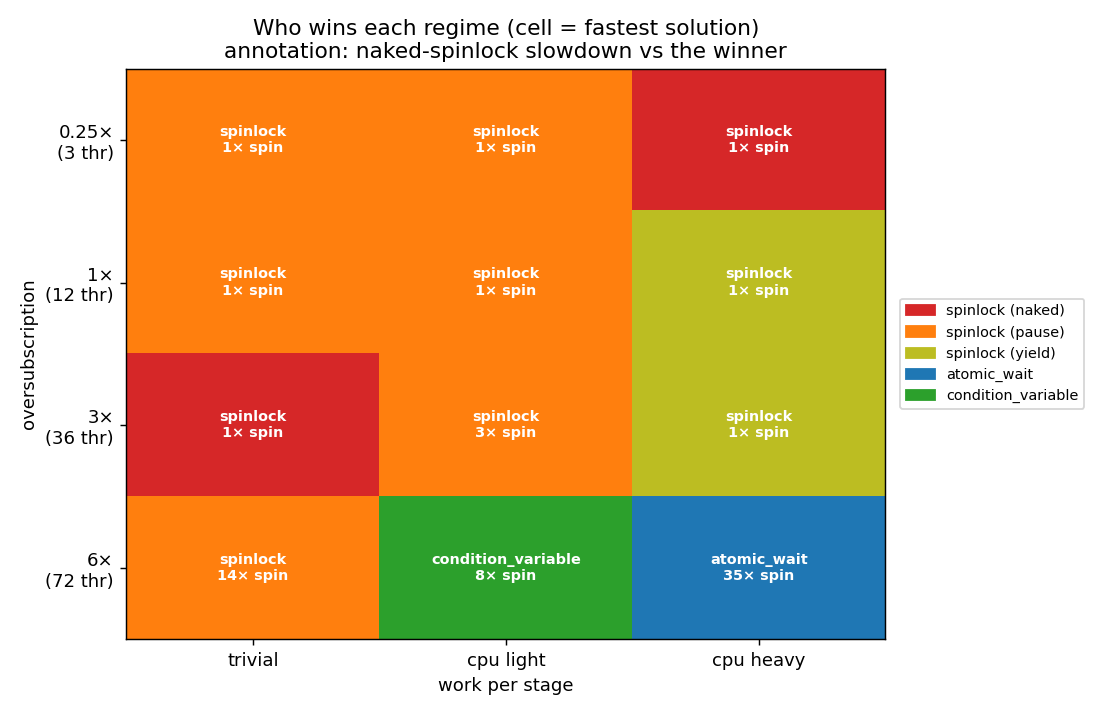
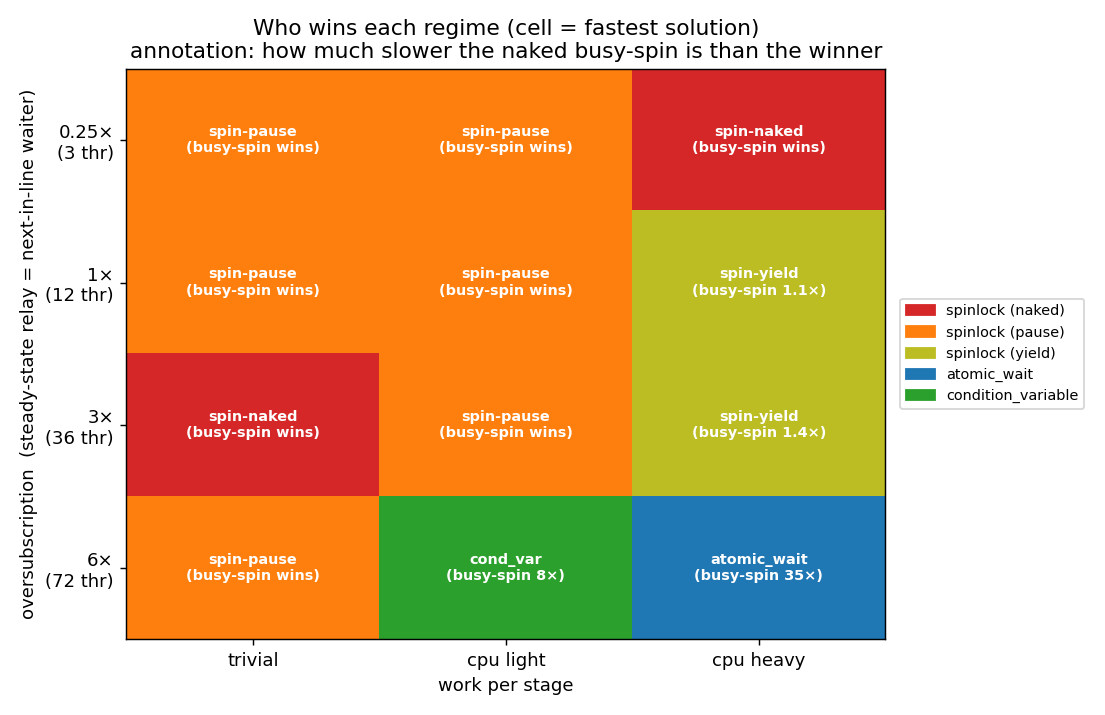
Fix misleading heatmap labels; clarify when busy-spin actually wins
The heatmap collapsed all three spinlock variants to "spinlock", so cells won by
spin-yield (which yields the core) read as busy-waiting wins. Now each cell names
the variant and annotates how the naked busy-spin (the variant that *holds* a
core) actually did.

Also document the two first-principles conditions for busy-spin to pay off — a
free core for the waiter AND high replacement frequency (waiter about to run) —
and make explicit that the heatmap is the steady-state relay (every waiter is
next-in-line, which is why spinning wins broadly there) while the one-shot bars
are the true thundering herd (where naked busy-spin loses on cpu work too).

Data: naked busy-spin clearly wins only at <=1x oversubscription; at 6x + cpu it
is ~35x slower. Matches the classic model.

diff --git a/scripts/plot.py b/scripts/plot.py
@@ -41,6 +41,12 @@ COLOR = {
 WORKLABEL = {("none", "0"): "trivial", ("cpu", "500"): "cpu light",
              ("cpu", "4000"): "cpu heavy", ("cpu", "20000"): "cpu",
              ("sleep", "200"): "sleep / IO"}
+# Short, variant-distinguishing names so the heatmap never hides which kind of
+# "spinlock" actually won (yield gives the core back; naked/pause hold it).
+SHORT = {"spinlock": "spin-naked", "spinlock_pause": "spin-pause",
+         "spinlock_yield": "spin-yield", "atomic_wait": "atomic_wait",
+         "condition_variable": "cond_var"}
+HOLDS_CORE = {"spinlock", "spinlock_pause"}  # true busy-wait
 
 
 def load():
@@ -130,13 +136,15 @@ def plot_heatmap(rows):
     ax.set_xticks(range(len(works)), [WORKLABEL.get(w, "/".join(w)) for w in works])
     ax.set_yticks(range(len(lanes)), [f"{3*ln/CORES:g}×\n({3*ln} thr)" for ln in lanes])
     ax.set_xlabel("work per stage")
-    ax.set_ylabel("oversubscription")
+    ax.set_ylabel("oversubscription  (steady-state relay = next-in-line waiter)")
     ax.set_title("Who wins each regime (cell = fastest solution)\n"
-                 "annotation: naked-spinlock slowdown vs the winner")
+                 "annotation: how much slower the naked busy-spin is than the winner")
     for i, ln in enumerate(lanes):
         for j, wk in enumerate(works):
             win, ratio = best[(ln, wk)]
-            ax.text(j, i, f"{LABEL[win].split(' ')[0]}\n{ratio:.0f}× spin",
+            rtxt = f"{ratio:.0f}×" if ratio >= 2 else f"{ratio:.1f}×"
+            note = "busy-spin wins" if win in HOLDS_CORE else f"busy-spin {rtxt}"
+            ax.text(j, i, f"{SHORT[win]}\n({note})",
                     ha="center", va="center", color="white", fontsize=8, fontweight="bold")
     handles = [plt.Rectangle((0, 0), 1, 1, color=COLOR[s]) for s in ORDER]
     ax.legend(handles, [LABEL[s] for s in ORDER], loc="center left",

diff --git a/docs/print-in-order-deep-dive.md b/docs/print-in-order-deep-dive.md
@@ -67,30 +67,53 @@ to sink a spinlock.** You need the other knob too.
 ## 3. Both knobs together — the real crossover
 
 Now vary oversubscription **and** work, and colour each cell by its fastest
-solution (annotation = how many times slower the naked spinlock is than the
-winner):
+solution. The parenthesised note says how the **naked busy-spin** (the variant
+that *holds* a core) did — so you can read off exactly when busy-waiting pays:
 
 ![winner heatmap](img/winner_heatmap.png)
 
-- **Top half (threads fit on cores):** a spin variant wins everywhere, even with
-  heavy CPU work.
-- **Bottom-right (oversubscribed *and* real work):** parking wins decisively —
-  the naked spinlock is **8× slower** than `condition_variable` on cpu-light and
-  **35× slower** than `atomic_wait` on cpu-heavy. A spinning waiter is now burning
-  a core running its busy-loop while the thread that owns the baton has real work
-  to do and can't get scheduled.
-- `atomic_wait` is the most robust square on the map: spinlock-tiny object,
-  lock-free fast path, but it sleeps instead of starving the worker.
+> ⚠️ **Read the variant, not just the colour.** Three different "spinlocks" live
+> here. `spin-naked` and `spin-pause` *hold* the core while waiting (true
+> busy-waiting). `spin-yield` calls `yield()` and *gives the core back* — so when
+> a cell is won by `spin-yield`, busy-waiting did **not** win there; a
+> core-returning strategy did. The annotation makes this explicit.
 
-The crossover isn't a line at 1× — it's a corner. You need **enough threads to
-contend for cores AND enough work that losing a core actually hurts.**
+Two structural facts about this benchmark matter for reading it:
+
+- **The relay is a high-replacement-frequency scenario by construction.** The
+  waiting thread is always the *next* one to receive the baton, so its
+  probability of needing the CPU imminently is ~100%. That is exactly the
+  classic precondition for spinning to pay off — which is why busy-spin wins so
+  much of this map. It is *not* evidence that spinning beats parking in general.
+- **"Oversubscription" here is nominal.** A relay lane has one thread working,
+  one spinning for the next handoff, and one further back — so effective
+  concurrency is well below `3 × lanes`.
+
+With that in mind:
+
+- **Top rows / trivial column (a core is effectively free for the next-in-line
+  waiter):** busy-spin wins — no real work for the spinner to steal a core
+  *from*, and the waiter runs the instant the baton arrives.
+- **cpu-heavy column, climbing oversubscription:** the winner walks from
+  `spin-naked` → `spin-yield` → `atomic_wait`. By 6× the naked busy-spin is
+  **35× slower** than the winner: now there genuinely aren't enough cores, and a
+  busy-spinner is burning one that the baton-holder needs to do real work.
+- `atomic_wait` is the most robust square: spinlock-tiny object, lock-free fast
+  path, but it sleeps instead of starving the worker.
+
+So busy-waiting wins only where you'd expect from first principles — **a (near-)
+dedicated core for a waiter that's about to run** — and loses exactly where you'd
+expect: oversubscribed *with real work to do*.
 
 ---
 
 ## 4. Work *type* under a thundering herd — the harshest case for spinning
 
-One-shot mode releases 96 threads (8× the cores) simultaneously off a latch — a
-thundering herd where everyone contends at once. Vary what each action does:
+The heatmap above is the steady-state relay, where every waiter is next-in-line.
+This is the opposite: one-shot mode releases 96 threads (8× the cores)
+simultaneously off a latch — a **thundering herd** where most waiters are *not*
+about to run (they're blocked behind a long chain), so the replacement-frequency
+argument that helped spinning in §3 no longer applies. Vary what each action does:
 
 ![work type bars](img/work_type_bars.png)
 
@@ -110,15 +133,21 @@ solutions — because it hands the core back. The lesson is precise: it's
 
 ## The variables, summarised
 
-| variable | favours spinning | favours parking |
+| variable | favours busy-spin | favours parking |
 |---|---|---|
-| **oversubscription** (threads / cores) | ≤ ~6× *if work is trivial*; ≤ 1× once work is real | high + real work |
+| **free core for the waiter** | yes — (near-)dedicated core available | no — cores oversubscribed |
+| **replacement frequency** (will the waiter run *soon*?) | high — waiter is next-in-line | low — waiter blocked behind a long chain |
 | **work / wait duration** | very short (< a syscall, ~1–5 µs) | long |
 | **work type** while holding the baton | — | blocking I/O (holder off-CPU) |
-| **contention pattern** | steady state, few active at once | thundering herd |
+| **oversubscription** (threads / cores) | ≤ 1× with real work; tolerated higher only when work is trivial | high + real work |
 | **thread affinity** | pinned, hot threads | threads migrate / share cores |
 | **object count / cache** | millions of locks → 4 B atomic wins on footprint | — |
 | **wakeup-latency requirement** | need deterministic ns wakeup | µs jitter acceptable |
+
+The first two rows are the heart of it — and they're the conditions you'd state
+from first principles: **busy-spin pays only when a waiter has a core to spin on
+*and* is about to need it.** Everything else (work, oversubscription, herd vs
+steady state) is really just a way those two conditions get satisfied or broken.
 
 ## Rules of thumb
 